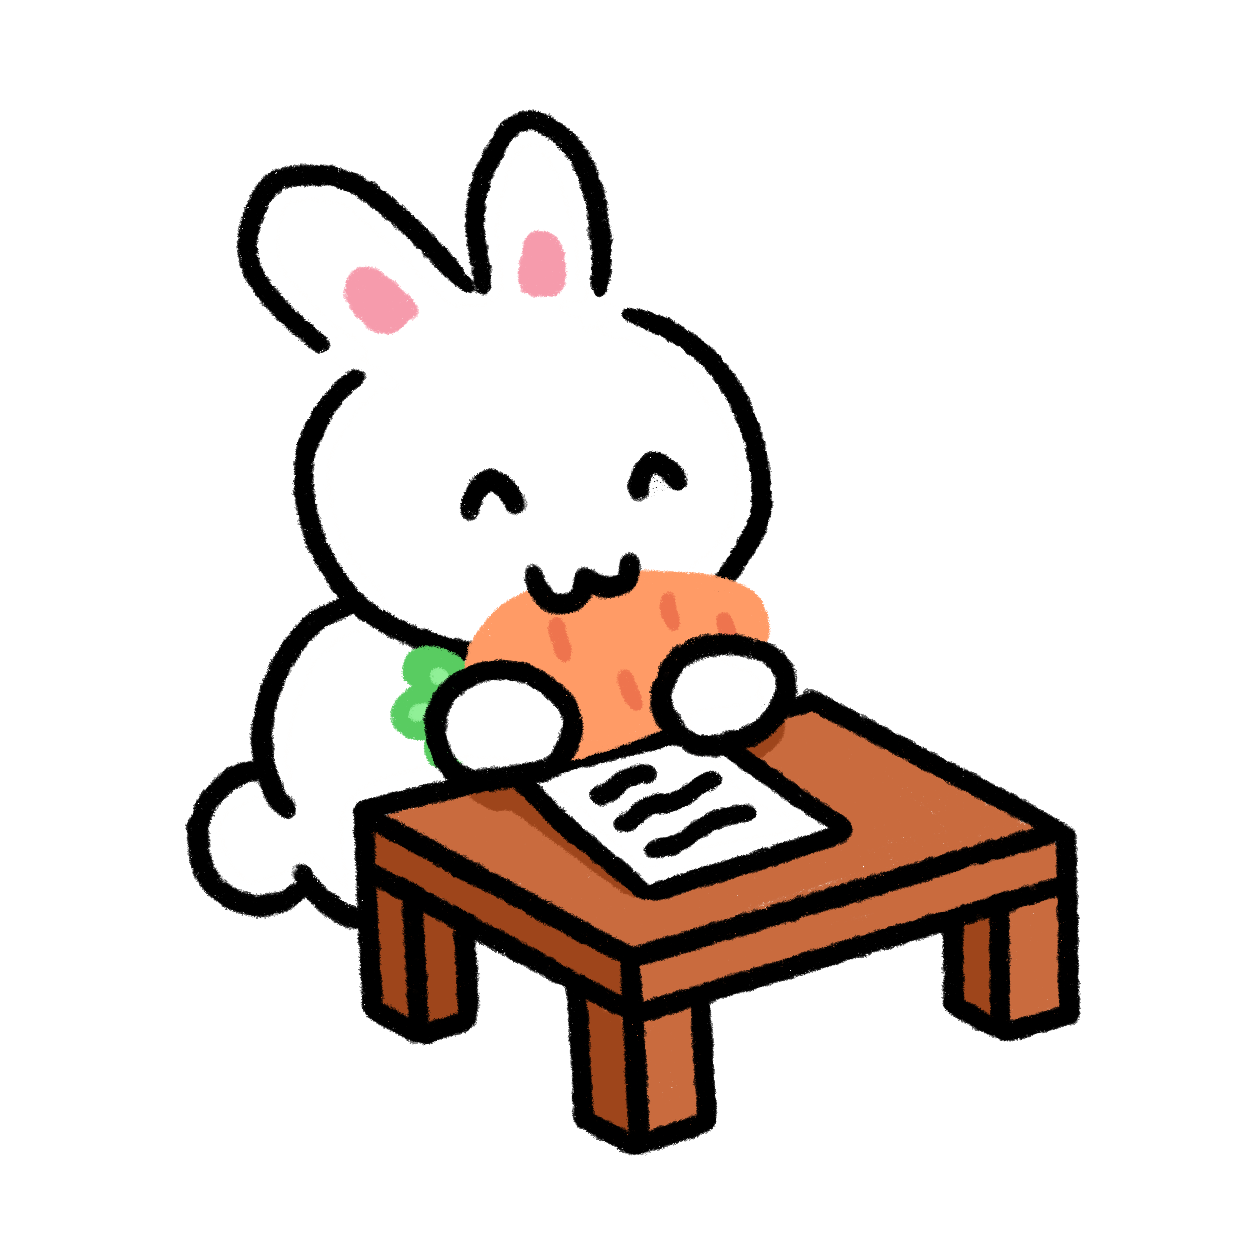
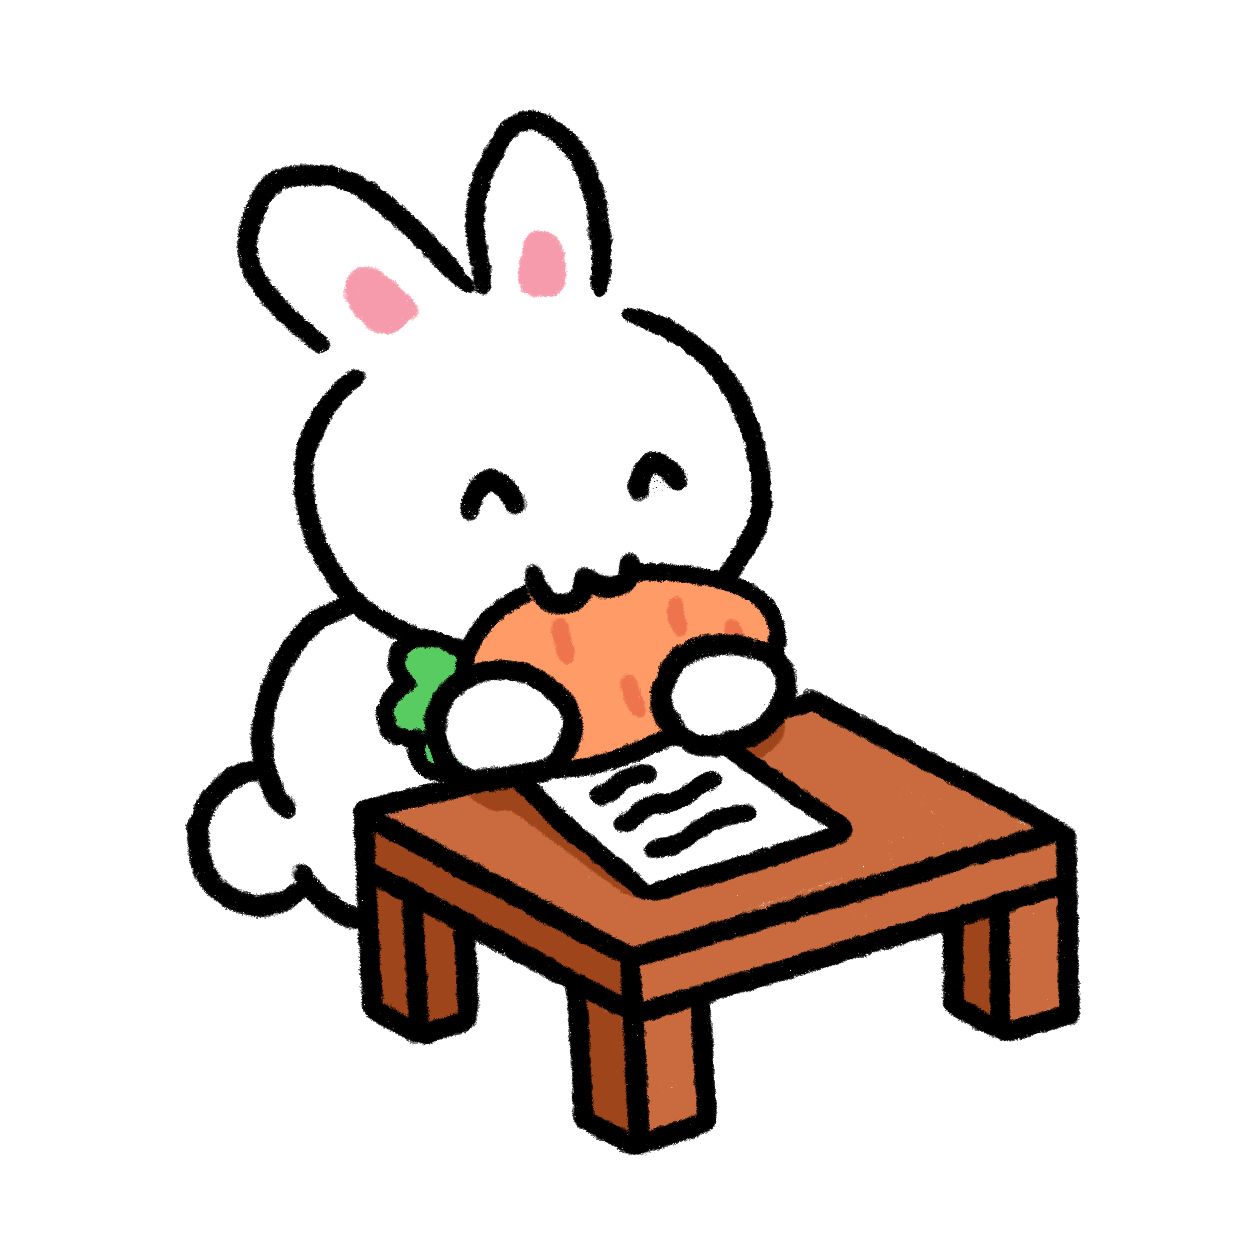
New assets

diff --git a/Hack/src/components/screens/AppScreen.tsx b/Hack/src/components/screens/AppScreen.tsx
@@ -105,41 +105,6 @@ function AppScreen() {
                     height: "100vh",
                 }}
             >
-                {/* Sky */}
-                <div
-                    style={{
-                        position: "absolute",
-                        bottom: 0,
-                        width: "100%",
-                        height: "100%",
-                    }}
-                >
-                    {/* <div
-                        style={{
-                            width: "100%",
-                            height: "100%",
-                            backgroundColor: "#e9f5ff",
-                        }}
-                    /> */}
-                </div>
-
-                {/* Grass */}
-                <div
-                    style={{
-                        position: "absolute",
-                        bottom: 0,
-                        width: "100%",
-                    }}
-                >
-                    <div
-                        style={{
-                            width: "100%",
-                            height: "160px",
-                            backgroundColor: "lightGreen",
-                        }}
-                    />
-                </div>
-
                 <div
                     style={{
                         position: "absolute",
@@ -184,30 +149,30 @@ function AppScreen() {
 
                         <div
                             style={{
-                                width: "200px",
-                                height: "100px",
+                                width: 350,
+                                height: 350,
                                 position: "relative",
-                                bottom: "50px",
                             }}
                         >
-                            <div
+                            <HackImage
+                                fileName="table.png"
+                                width={350}
+                                scale={HackImageScale.scaleToFit}
                                 style={{
-                                    backgroundColor: "purple",
-                                    width: "150px",
-                                    height: "100px",
                                     position: "absolute",
                                     left: "50%",
                                     transform: "translateX(-50%)",
                                 }}
-                            ></div>
+                            />
 
                             {Array.from({ length: foodCount }, (_, index) => (
                                 <Draggable
                                     style={{
                                         position: "absolute",
                                         left: "50%",
-                                        transform: "translateX(-50%)",
-                                        bottom: 20 + index * 20,
+                                        transform: "translateX(-80%)",
+                                        bottom: 100 + index * 20,
+                                        // right: -30,
                                     }}
                                     disableTransition={!(foodCount == 1 && index == 0)}
                                     type={HackDragType.carrot}

diff --git a/Hack/src/services/AnimationFrames.ts b/Hack/src/services/AnimationFrames.ts
@@ -3,7 +3,7 @@ class AnimationFrames {
     public static readonly sleeping = ["sleeping-1.png", "sleeping-2.png"];
     public static readonly studying = ["study-1.png", "study-2.png"];
 
-    public static readonly eatingSpeed = 100;
+    public static readonly eatingSpeed = 160;
     public static readonly sleepingSpeed = 600;
     public static readonly studyingSpeed = 600;
 }

diff --git a/Hack/src/components/styling/HackColors.ts b/Hack/src/components/styling/HackColors.ts
@@ -7,7 +7,7 @@ import HackColor from "./color/HackColor";
  */
 class HackColors {
     static get accent(): HackColor {
-        return new HackColor("#1769ff");
+        return new HackColor("#ff8d51");
     }
 
     static get textLightPersistent(): HackColor {
